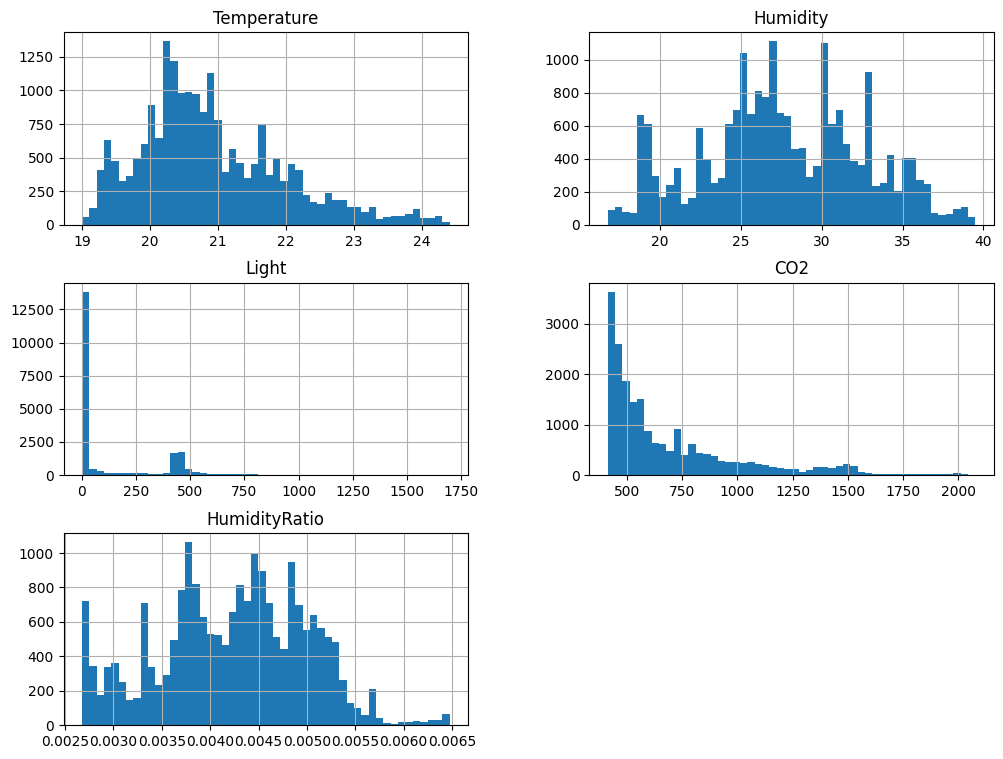
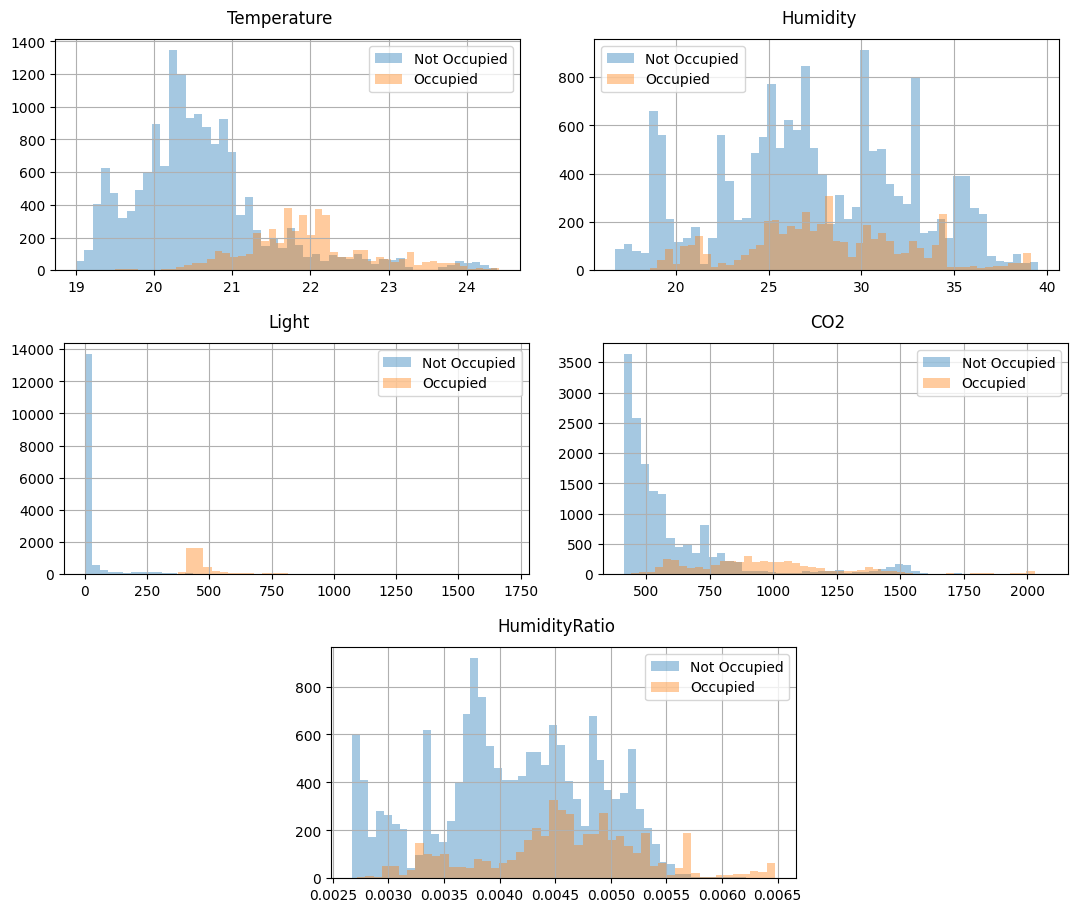
Relabeling gambar

diff --git a/laporan.md b/laporan.md
@@ -66,6 +66,8 @@ Berikut adalah hasil `df.describe()` dari data:
 |   75% |   21.525000  |   31.290000  |  301.000000  |  804.666667  |    0.004832   |   0.000000   |
 |   max |   24.408333  |   39.500000  |  1697.250000 |  2076.500000 |    0.006476   |   1.000000   |
 
+_Tabel 3.1: Hasil `df.describe()` pada data_
+
 ### Exploratory Data Analysis
 
 Berikut adalah hasil analisis dari data tersebut:
@@ -74,7 +76,7 @@ Berikut adalah hasil analisis dari data tersebut:
 
     Berikut adalah plot kemunculan kelas 0 (tidak berpenghuni) dan 1 (berpenghuni) pada fitur Occupancy
 
-    ![](pic/03-02.png)
+    ![](pic/03-01.png)
     
     _Gambar 3.1: Plot distribusi kelas_
 
@@ -84,11 +86,11 @@ Berikut adalah hasil analisis dari data tersebut:
 
     Berikut adalah grafik histogram pada masing-masing fitur numerik pada data
 
-    ![](pic/03-03.png)
+    ![](pic/03-02.png)
 
      _Gambar 3.2: Grafik histogram fitur_
 
-    Dari grafik diatas, didapat observasi sebagai berikut:
+    Dari gambar 3.2, didapat observasi sebagai berikut:
 
     - Pada fitur temperature, sebagian besar data berkumpul di sekitar 20-21 derajat
     - Pada fitur humidity, distribusi data lebih merata dengan beberapa puncak
@@ -100,10 +102,11 @@ Berikut adalah hasil analisis dari data tersebut:
 
     Berikut adalah grafik histogram tiap fitur numerik pada data, dikelompokkan berdasarkan kelas.
 
-    ![](pic/03-04.png)
+    ![](pic/03-03.png)
+
     _Gambar 3.3: Grafik histogram fitur berdasarkan kelas_
 
-    Dari grafik diatas, didapat observasi sebagai berikut:
+    Dari gambar 3.3, didapat observasi sebagai berikut:
 
     - Data temperature pada kelas Not Occupied rata-rata ada di antara 20 dan 21, sedangkan pada kelas Occupied, rata-ratanya ada di sekitar 22
     - Data light pada kelas Not Occupied sebagian besar ada di bawah 250, sedangkan pada kelas Occupied rata-ratanya ada di sekitar 500
@@ -114,10 +117,11 @@ Berikut adalah hasil analisis dari data tersebut:
 
     Berikut adalah diagram boxplot dari masing-masing fitur numerik, dikelompokkan berdasarkan kelas
 
-    ![](pic/03-05.png)
+    ![](pic/03-04.png)
+
     _Gambar 3.4: Grafik boxplot fitur berdasarkan kelas_
 
-    Dari grafik diatas, didapat observasi sebagai berikut:
+    Dari gambar 3.4, didapat observasi sebagai berikut:
 
     - Pada fitur temperature dan CO2, terdapat beberapa outlier pada kedua kelas, baik pada kelas Not Occupied maupun kelas Occupied.
     - Pada fitur humidity, tidak ada outlier yang signifikan.
@@ -129,10 +133,11 @@ Berikut adalah hasil analisis dari data tersebut:
 
     Berikut adalah hasil Correlation Matrix dari data:
 
-    ![](pic/03-07.png)
+    ![](pic/03-05.png)
+
     _Gambar 3.5: Correlation matrix_
 
-    Dari gambar diatas, terlihat bahwa fitur Light berkorelasi paling tinggi dengan fitur Occupancy dengan koefisien sebesar 0,91. Fitur Humidity berkorelasi paling rendah dengan koefisien sebesar 0,05.
+    Dari gambar 3.5, terlihat bahwa fitur Light berkorelasi paling tinggi dengan fitur Occupancy dengan koefisien sebesar 0,91. Fitur Humidity berkorelasi paling rendah dengan koefisien sebesar 0,05.
     
 ## 4. Data Preparation
 
@@ -202,11 +207,15 @@ Tahapan melakukan modellingnya adalah sebagai berikut:
     | max_features      | 'log2' |
     | max_depth         | 5      |
 
+    _Tabel 5.1: Nilai hyperparameter setelah dilakukan random search_
+
 5. Interpretasi model
 
-    *Feature importances* dapat dihitung dengan menggunakan `feature_importances_` pada model. Berikut adalah hasil perhitungan *feature importances* dari model baseline dan model yang sudah di-tuned:
+    *Feature importances* dapat dihitung dengan menggunakan `feature_importances_` pada model. Berikut adalah grafik hasil perhitungan *feature importances* dari model baseline dan model yang sudah di-tuned:
 
     ![](pic/05-01.png)
+
+    _Gambar 5.1: Grafik feature importance dari kedua model_
 
     Dari diagram diatas, terlihat bahwa dalam kedua model, fitur light memiliki pengaruh paling signifikan dalam kedua model, sedangkan fitur CO2 dan temperature memiliki pengaruh yang relatif rendah. Hal ini menunjukkan bahwa intensitas cahaya berperan penting dalam deteksi hunian.
 
@@ -219,6 +228,8 @@ Metrik evaluasi model yang digunakan adalah sebagai berikut:
     Confusion Matrix berisi prediksi model dibandingkan dengan yang seharusnya. Tiap baris menunjukkan kelas yang benar, dan tiap kolom menunjukkan prediksi yang dilakukan model. Contoh confusion matrix adalah sebagai berikut:
 
     ![](pic/06-01.png)
+
+    _Gambar 6.1: Contoh confusion matrix_
 
     Pada gambar diatas, ada 13 data yang berhasil diprediksi sebagai setosa, 10 data yang benar diprediksi sebagai versicolor, dan 9 data yang benar diprediksi sebagai virginica. Namun, ada 6 data yang diprediksi sebagai virginica, padahal seharusnya versicolor. Idealnya, hasil confusion matrix memiliki nilai yang besar di bagian diagonal utamanya.
 
@@ -273,6 +284,8 @@ Metrik evaluasi model yang digunakan adalah sebagai berikut:
 
     ![](pic/06-02.png)
 
+    _Gambar 6.2: Contoh grafik ROC_
+
     AUC (Area Under Curve) menunjukkan luas daerah di bawah grafik ROC. Nilainya memiliki rentang dari 0 hingga 1. Nilai AUC mendekati 1 menunjukkan performa yang baik, sedangkan nilai AUC sekitar 0.5 menandakan performa yang tidak lebih baik dari memilih kelas secara acak. Nilai AUC dibawah 0.5 menandakan performa yang lebih buruk dari prediksi acak.
 
 Dibawah adalah nilai accuracy, F1 Score, serta ROC-AUC score dari model baseline dan model yang sudah dilakukan hyperparameter tuning. Nilai metrik didapat menggunakan data testing.
@@ -283,17 +296,23 @@ Dibawah adalah nilai accuracy, F1 Score, serta ROC-AUC score dari model baseline
 |  F1 Score | 0.940328 | 0.977734 |
 |  ROC-AUC  | 0.963449 | 0.991250 |
 
+_Tabel 6.1: Nilai metrik pada model baseline dan yang sudah di-tune_
+
 Berikut adalah diagram dari tabel diatas:
 
-![](pic/06-07.png)
+![](pic/06-03.png)
 
-Dari data diatas, terlihat bahwa model baseline memiliki akurasi dan f1 score yang lebih baik dari model yang di-tune pada data training. Namun pada data test, model baseline memiliki akurasi dan f1 score yang lebih buruk dari model yang di-tune
+_Gambar 6.3: Diagram nilai metrik pada model baseline dan yang sudah di-tune_
+
+Dari tabel 6.1 dan gambar 6.3 tersebut, terlihat bahwa model baseline memiliki akurasi dan f1 score yang lebih baik dari model yang di-tune pada data training. Namun pada data test, model baseline memiliki akurasi dan f1 score yang lebih buruk dari model yang di-tune
 
 Berikut adalah diagram confusion matrix menggunakan dataset test dari masing-masing model:
 
-![](pic/06-08.png)
+![](pic/06-04.png)
 
-Dari diagram diatas, didapat observasi berikut:
+_Gambar 6.4: Diagram confusion matrix pada model baseline dan yang sudah di-tune_
+
+Dari gambar 6.4, didapat observasi berikut:
 
 - Model Baseline:
 
